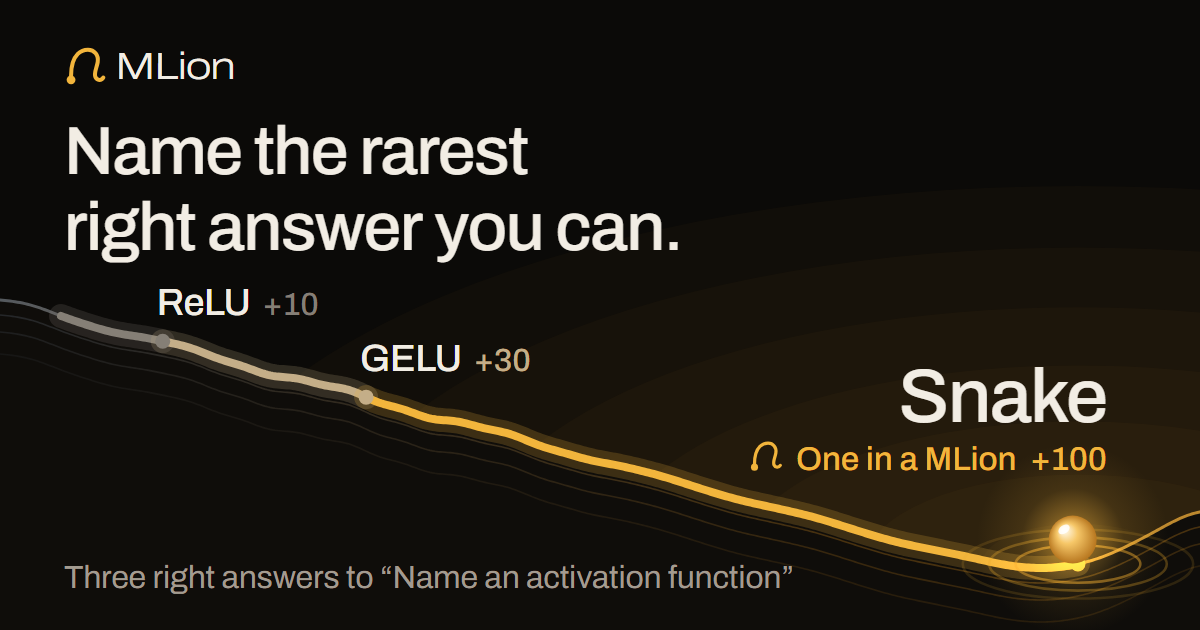
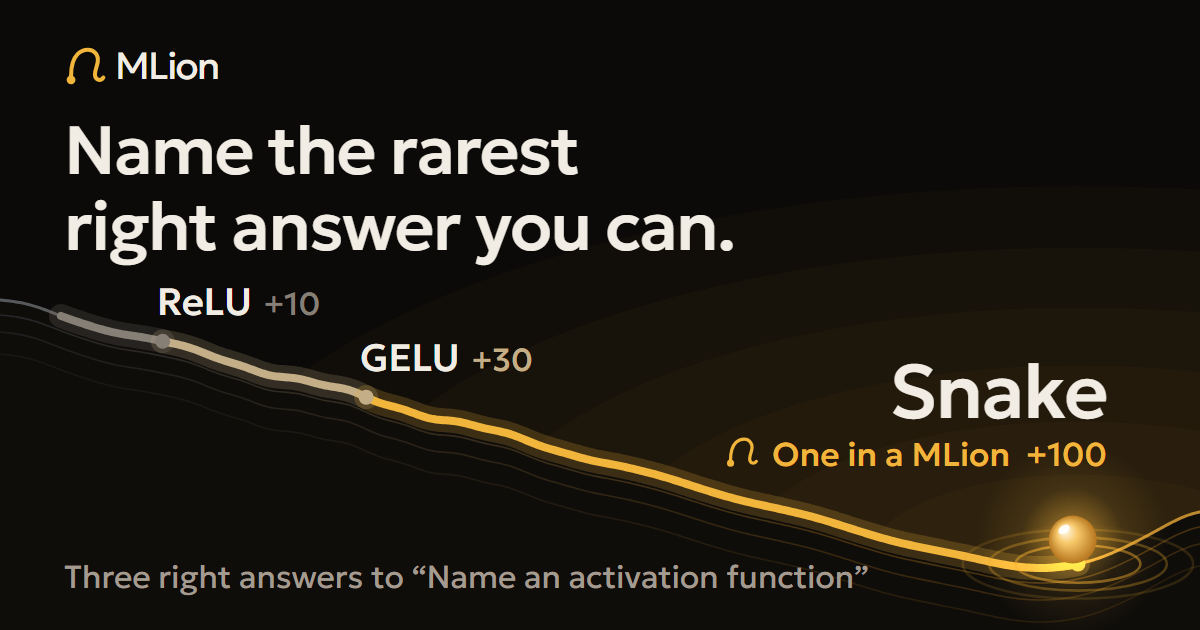
Type: Geologica instead of Archivo
One variable family (28.6 KB latin against 88 KB), chosen after rendering six systems into the real screens.
Its sharpness axis sets the name, headings, tier names and numbers; numbers are heavy and tabular now, and
the prompt and answer one weight step up on the dark ground. Canvas text, the share card and the link
preview image use it too.

Claude-Session: https://claude.ai/code/session_01NbrVzSzK7tnHZZqHAGhKyZ

diff --git a/css/style.css b/css/style.css
@@ -1,6 +1,6 @@
 /* MLion — the daily descent.
  * A dark room with one lit thing in it: the loss landscape and the gold ball.
- * One family (Archivo, its width axis for the name), tone steps instead of
+ * One family (Geologica, its sharpness axis for the name and the numbers), tone steps instead of
  * lines, round controls, gold only for the ball, the action and the gem. */
 :root {
   --bg: #0b0a08;
@@ -25,7 +25,7 @@
   --t-mlion: #f2b53c;
   --t-miss: #6c665d;
 
-  --font: "Archivo", ui-sans-serif, system-ui, -apple-system, "Segoe UI", sans-serif;
+  --font: "Geologica", ui-sans-serif, system-ui, -apple-system, "Segoe UI", sans-serif;
   --s1: 14px;
   --s2: 17px;
   --s3: 24px;
@@ -1412,3 +1412,60 @@ html.kb .live-sp .sp-round { display: none; }
 .oth-a i { margin-left: 8px; padding: 1px 8px; border-radius: var(--round); background: var(--raised-2); color: var(--gold); font-style: normal; font-size: 12px; vertical-align: 1px; }
 .oth-who { grid-column: 2; color: var(--faint); font-size: var(--s1); overflow-wrap: anywhere; }
 .oth-who b { color: var(--muted); font-weight: 600; }
+
+/* ================================================================ type: Geologica (2026-11-06)
+ * The user asked for a better, more particular face than Archivo, and for numbers that don't look thin and out
+ * of place. Geologica (Monokrom, OFL, Google Fonts): one variable file, 28.6 KB latin for every weight, against
+ * Archivo's 88 KB. Chosen over Bricolage Grotesque and Funnel after rendering six systems into the real screens.
+ * Roles: reading text is Geologica with its sharpness axis at 0 (the default); the name, headings, tier names
+ * and the counting numbers use SHRP 100, whose cut terminals give 2 3 6 9 a n some edge at large sizes.
+ * Light text on the dark ground gets one weight step more than it would on white (the prompt, the answer).
+ * The streak count's rules live with the streak badge. */
+:root {
+  --font-display: var(--font);
+  --font-num: var(--font);
+}
+/* display: the name, headings, the jackpot word, the drawer */
+.brand, .wordmark, h1, h2, h3, .jackpot, .drawer a.nav, .modes a, .block-title {
+  font-family: var(--font-display); font-variation-settings: 'SHRP' 100;
+}
+/* the name's stems match the lion mark's stroke: the hero mark's stroke is 0.079 em and Geologica 300's stem
+   0.092 em; the top bar's 30 px mark has a 2.6 px stroke beside 21 px text, and Geologica 500's stem is 2.7 px */
+.brand { font-weight: 500; font-stretch: 100%; letter-spacing: -0.02em; font-size: 21px; }
+.wordmark { font-weight: 300; font-stretch: 100%; letter-spacing: -0.04em; }
+h1, h2, h3, .block-title { font-weight: 600; font-stretch: 100%; letter-spacing: -0.025em; }
+.jackpot { font-weight: 800; font-stretch: 100%; letter-spacing: -0.03em; }
+.drawer a.nav, .modes a { font-weight: 500; letter-spacing: -0.02em; }
+.modes a span, .modes a.friend { font-family: var(--font); font-weight: 400; font-variation-settings: normal; }
+
+/* tier names: the verdict, the band, the depths */
+.fb-name, .band, .depths .n, .depths-sec .n {
+  font-family: var(--font-display); font-weight: 600; font-stretch: 100%;
+  letter-spacing: -0.02em; font-variation-settings: 'SHRP' 100;
+}
+.depths .n small { font-family: var(--font); font-weight: 400; font-variation-settings: normal; }
+
+/* the counting numbers: heavy, tabular, lining */
+.hud b, .score-big, .figure b, .beats b, #timer-num, .fb-points, .duel-scores b,
+.lv-podium em, .lv-answers em, .lv-standings em, .sp-tally b, .sp-ph em, .adm-rows .pts {
+  font-family: var(--font-num); font-variant-numeric: tabular-nums lining-nums;
+  font-variation-settings: 'SHRP' 100; font-stretch: 100%;
+}
+.hud b { font-weight: 700; letter-spacing: -0.02em; }
+.score-big { font-weight: 700; letter-spacing: -0.045em; font-stretch: 100%; }
+.score-big small { font-family: var(--font); font-weight: 400; letter-spacing: 0; font-variation-settings: normal; font-stretch: 100%; }
+.figure b, .beats b { font-weight: 700; letter-spacing: -0.02em; }
+.duel-scores b, .lv-podium em { font-weight: 700; }
+#timer-num { font-weight: 600; }
+.fb-points { font-weight: 700; }
+
+/* the prompt players read against the clock, and their answer: one weight step up on the dark ground */
+.prompt-text { font-weight: 500; letter-spacing: -0.015em; line-height: 1.22; font-size: var(--s3); }
+@media (min-width: 760px) { .prompt-text { font-size: var(--s4); } }
+.prompt-text.rq-text { font-weight: 400; letter-spacing: 0; }
+.answer-input { font-size: 19px; font-weight: 500; letter-spacing: 0; }
+.fb-answer { font-weight: 500; }
+
+/* buttons and small labels */
+.btn { font-weight: 600; letter-spacing: 0; }
+.hud span, #timer-label, .prompt-pack, .play-head, .topbar-mid { letter-spacing: 0.01em; }

diff --git a/js/sharecard.js b/js/sharecard.js
@@ -27,7 +27,7 @@
   // the stage's light, from the rim (cold) to the basin (gold): js/landscape.js PAL, ends only
   const COLD = { path: "#737a82", strata: "#2b3035", rim: "#8a949e" };
   const WARM = { path: "#d89c34", strata: "#714b12", rim: "#f2b53c" };
-  const FONT = 'Archivo, ui-sans-serif, system-ui, -apple-system, "Segoe UI", sans-serif';
+  const FONT = 'Geologica, ui-sans-serif, system-ui, -apple-system, "Segoe UI", sans-serif';
   const FORMATS = {
     card: { w: 1200, h: 630, name: "Card" },
     story: { w: 1080, h: 1920, name: "Story" },
@@ -137,12 +137,12 @@
   }
 
   // ----------------------------------------------------------------- fonts
-  /** Load the faces the card uses (the site's Archivo), for the text it will draw. Never waits long. */
+  /** Load the faces the card uses (the site's Geologica, one variable file for every weight), for the text it will draw. Never waits long. */
   async function fontsReady(spec) {
     if (!document.fonts || !document.fonts.load) return;
     const text = [spec.title, spec.sub, spec.url, spec.hook && (spec.hook.prompt || spec.hook.question), spec.hook && spec.hook.answer,
       spec.duel && spec.duel.name, "MLion0123456789/., ofrightwinsdrawlossLongTail"].filter(Boolean).join(" ");
-    const loads = ["300", "400", "500"].map((w) => document.fonts.load(`${w} 40px Archivo`, text).catch(() => null));
+    const loads = ["300", "400", "500", "600", "700"].map((w) => document.fonts.load(`${w} 40px Geologica`, text).catch(() => null));
     await Promise.race([Promise.all(loads).then(() => document.fonts.ready), new Promise((r) => setTimeout(r, 2500))]);
   }
 
@@ -255,7 +255,7 @@
     c.beginPath(); c.arc(M.ball[0], M.ball[1], M.ball[2], 0, Math.PI * 2); c.fill();
     c.restore();
     const fs = size * 0.86;
-    font(c, fs, 300, "expanded", -0.04 * fs);
+    font(c, fs, 400, "normal", -0.04 * fs); // Geologica 400's stem matches the card mark's stroke (0.11 em)
     c.fillStyle = COL.ink; c.textBaseline = "alphabetic"; c.textAlign = "left";
     const base = y + size * 0.79;
     let tx = x + size * 1.16;
@@ -408,12 +408,12 @@
       block(spec.quiz ? "Not one right answer." : "Stuck on the plateau.", [S.answer, S.answer * 0.84], 2, 500, COL.ink, -0.02, S.small * 0.5);
     } else if (h.kind === "rarest") {
       block(`My rarest answer to “${h.prompt}”`, [S.small], 2, 400, COL.muted, 0, 0);
-      out.push({ ...txt(h.count > 1 ? `${h.tierName} ×${h.count}` : h.tierName, Math.round(S.tier * small), 500, V.TIER_COLORS[h.tier], S.small * 0.5), mark: h.tier });
+      out.push({ ...txt(h.count > 1 ? `${h.tierName} ×${h.count}` : h.tierName, Math.round(S.tier * small), 600, V.TIER_COLORS[h.tier], S.small * 0.5), mark: h.tier });
       block(h.answer, [S.answer, S.answer * 0.86, S.answer * 0.74, S.answer * 0.64], 2, 500, COL.ink, -0.02, S.tier * 0.3);
     } else {
       // the hardest question answered right: the question itself, then how it went
       const how = `${h.level ? `${h.level[0].toUpperCase()}${h.level.slice(1)} question, right` : "Right"}${h.secs != null ? ` in ${h.secs.toFixed(1)} s` : ""}`;
-      out.push({ ...txt(how, Math.round(S.tier * small), 500, V.TIER_COLORS[QUIZ_TIER], 0), mark: "hit" });
+      out.push({ ...txt(how, Math.round(S.tier * small), 600, V.TIER_COLORS[QUIZ_TIER], 0), mark: "hit" });
       block(h.question, [S.answer * 0.62, S.answer * 0.56, S.answer * 0.5], 4, 500, COL.ink, -0.01, S.tier * 0.4);
     }
     return out;
@@ -459,7 +459,7 @@
     c.textBaseline = "alphabetic"; c.textAlign = "left";
     const ofText = `/${spec.max}`;
     font(c, S.of, 400); const ofW = c.measureText(ofText).width;
-    font(c, S.score, 300, "semi-expanded", -0.05 * S.score);
+    font(c, S.score, 700, "normal", -0.045 * S.score);
     const sText = String(spec.score), sW = c.measureText(sText).width;
     const gap = S.of * 0.2, total = sW + gap + ofW;
     const left = align === "right" ? x - total : x - S.score * 0.04;

diff --git a/index.html b/index.html
@@ -61,13 +61,13 @@
   <meta property="og:url" content="https://mlion.lol/">
   <meta property="og:title" content="MLion, a daily word game for ML people">
   <meta property="og:description" content="Seven prompts a day. Common answers barely count.">
-  <meta property="og:image" content="https://mlion.lol/img/og.png?v=17jgdf9">
+  <meta property="og:image" content="https://mlion.lol/img/og.png?v=cemybd">
   <meta property="og:image:type" content="image/png">
   <meta property="og:image:width" content="1200">
   <meta property="og:image:height" content="630">
   <meta property="og:image:alt" content="A ball rolling down a loss curve. Three right answers to “Name an activation function”: ReLU scores 10, GELU 30, and Snake rolls to the bottom for 100.">
   <meta name="twitter:card" content="summary_large_image">
-  <meta name="twitter:image" content="https://mlion.lol/img/og.png?v=17jgdf9">
+  <meta name="twitter:image" content="https://mlion.lol/img/og.png?v=cemybd">
   <meta name="twitter:image:alt" content="A ball rolling down a loss curve. Three right answers to “Name an activation function”: ReLU scores 10, GELU 30, and Snake rolls to the bottom for 100.">
   <link rel="icon" href="img/favicon.svg" type="image/svg+xml">
   <link rel="apple-touch-icon" href="img/apple-touch-icon.png">
@@ -99,8 +99,8 @@
       } catch (e) { /* the game reads the board itself */ }
     })();
   </script>
-  <link href="https://fonts.googleapis.com/css2?family=Archivo:wdth,wght@100..125,300..600&display=swap" rel="stylesheet">
-  <link rel="stylesheet" href="css/style.css?v=1ds40d9">
+  <link href="https://fonts.googleapis.com/css2?family=Geologica:wght,SHRP@300..800,0..100&display=swap" rel="stylesheet">
+  <link rel="stylesheet" href="css/style.css?v=1tbows1">
 </head>
 <body>
   <canvas id="landscape" aria-hidden="true"></canvas>
@@ -178,9 +178,9 @@
   <noscript><p style="position:relative;z-index:2;text-align:center;padding:40px">MLion needs JavaScript to run.</p></noscript>
   <script src="js/engine.js?v=1fh56sp"></script>
   <script src="js/data.js?v=18c4ws5"></script>
-  <script src="js/landscape.js?v=fxuasy"></script>
+  <script src="js/landscape.js?v=1mttxey"></script>
   <script src="js/hero3d.js?v=16wh49w"></script>
-  <script src="js/sharecard.js?v=1godt4k"></script>
+  <script src="js/sharecard.js?v=qfd9g0"></script>
   <meta name="mlion:explain" content="js/explain.js?v=dkyo7q">
   <script src="js/app.js?v=43b905"></script>
 </body>

diff --git a/tools/icons.js b/tools/icons.js
@@ -12,7 +12,7 @@
  *
  * The preview image is drawn on a canvas with the share card's own pieces (js/sharecard.js `kit`:
  * the descent, tier glyphs, lockup), so it speaks the same visual language as a shared result.
- * Needs Playwright (chromium) and a network connection for the Archivo font. */
+ * Needs Playwright (chromium) and a network connection for the Geologica font. */
 "use strict";
 const fs = require("fs");
 const path = require("path");
@@ -23,7 +23,7 @@ const ROOT = path.join(__dirname, "..");
 const IMG = path.join(ROOT, "img");
 const LANDSCAPE = path.join(ROOT, "js", "landscape.js");
 const COL = { bg: "#0b0a08", gold: "#f2b53c", goldDeep: "#b5770a", ink: "#f2ede4", muted: "#a39b90" };
-const FONT_CSS = "https://fonts.googleapis.com/css2?family=Archivo:wdth,wght@100..125,300..600&display=swap";
+const FONT_CSS = "https://fonts.googleapis.com/css2?family=Geologica:wght,SHRP@300..800,0..100&display=swap";
 const args = process.argv.slice(2);
 const onlyOg = args.includes("og");
 const mock = args.includes("mock");
@@ -178,10 +178,10 @@ body { margin: 0; width: ${pageW}px; background: #313338; color: #dbdee1; font: 
     await page.setContent(`<!doctype html><html><head><meta charset="utf-8"><link rel="stylesheet" href="${FONT_CSS}"></head><body style="background:${COL.bg}"></body></html>`, { waitUntil: "networkidle" });
     for (const f of ["engine.js", "landscape.js", "sharecard.js"]) await page.addScriptTag({ path: path.join(ROOT, "js", f) });
     const fontOk = await page.evaluate(async () => {
-      await Promise.all(["300", "400", "500"].map((w) => document.fonts.load(`${w} 40px Archivo`, "MLion Name the rarest right answer you can. ReLU GELU Snake One in a MLion +100 “”")));
-      return document.fonts.check('500 40px "Archivo"');
+      await Promise.all(["300", "400", "500"].map((w) => document.fonts.load(`${w} 40px Geologica`, "MLion Name the rarest right answer you can. ReLU GELU Snake One in a MLion +100 “”")));
+      return document.fonts.check('500 40px "Geologica"');
     });
-    if (!fontOk) throw new Error("Archivo did not load; the preview image needs it (check the network)");
+    if (!fontOk) throw new Error("Geologica did not load; the preview image needs it (check the network)");
     const b64 = await page.evaluate(`(${drawOg.toString()})()`);
     fs.mkdirSync(OG_DIR, { recursive: true });
     const ogPath = path.join(OG_DIR, "og.png");

diff --git a/tools/cards.js b/tools/cards.js
@@ -6,7 +6,7 @@
  * Writes <name>-card.png and <name>-story.png for every sample run (default outDir:
  * tests/out/cards), prints each file's size, and with `thumbs` also screenshots each card at
  * chat sizes (550 px and 330 px wide on a Discord-grey page). Needs Playwright (chromium) and
- * a network connection for the Archivo font. */
+ * a network connection for the Geologica font. */
 "use strict";
 const path = require("path");
 const fs = require("fs");
@@ -21,8 +21,8 @@ const only = (args.find((a) => a.startsWith("only=")) || "").slice(5).split(",")
 fs.mkdirSync(OUT, { recursive: true });
 
 const HARNESS = `<!doctype html><html><head><meta charset="utf-8">
-<link href="https://fonts.googleapis.com/css2?family=Archivo:wdth,wght@100..125,300..600&display=swap" rel="stylesheet">
-<style>body{margin:0;background:#222;font-family:Archivo}</style></head><body>
+<link href="https://fonts.googleapis.com/css2?family=Geologica:wght,SHRP@300..800,0..100&display=swap" rel="stylesheet">
+<style>body{margin:0;background:#222;font-family:Geologica}</style></head><body>
 <script src="js/engine.js"></script><script src="js/data.js"></script><script src="js/explain.js"></script><script src="js/landscape.js"></script><script src="js/sharecard.js"></script>
 </body></html>`;
 
@@ -117,7 +117,7 @@ function samples(only) {
       fs.writeFileSync(path.join(OUT, `${k}.png`), Buffer.from(v.b64, "base64"));
       console.log(`${k.padEnd(24)} ${v.w}x${v.h}  ${(v.size / 1024).toFixed(0).padStart(4)} KB  ${v.ms} ms`);
     }
-    console.log("Archivo loaded:", await page.evaluate(() => document.fonts.check('300 40px "Archivo"')));
+    console.log("Geologica loaded:", await page.evaluate(() => document.fonts.check('300 40px "Geologica"')));
     if (args.includes("thumbs")) {
       await page.setViewportSize({ width: 582, height: 512 });
       for (const k of Object.keys(out).filter((x) => x.endsWith("-card"))) {

diff --git a/sw.js b/sw.js
@@ -12,7 +12,7 @@
  * new name. A new worker installs everything fresh (bypassing the HTTP cache), then waits: the page tells
  * it to take over when no game is running, and reloads once onto the new version (app.js, "updates"). */
 "use strict";
-const ASSETS = /*ASSETS*/["./","css/style.css?v=1ds40d9","js/engine.js?v=1fh56sp","js/data.js?v=18c4ws5","js/landscape.js?v=fxuasy","js/hero3d.js?v=16wh49w","js/sharecard.js?v=1godt4k","js/app.js?v=43b905","js/explain.js?v=dkyo7q","manifest.webmanifest","img/favicon.svg","img/icon-192.png","img/apple-touch-icon.png"]/*END*/;
+const ASSETS = /*ASSETS*/["./","css/style.css?v=1tbows1","js/engine.js?v=1fh56sp","js/data.js?v=18c4ws5","js/landscape.js?v=1mttxey","js/hero3d.js?v=16wh49w","js/sharecard.js?v=qfd9g0","js/app.js?v=43b905","js/explain.js?v=dkyo7q","manifest.webmanifest","img/favicon.svg","img/icon-192.png","img/apple-touch-icon.png"]/*END*/;
 const CACHE = "mlion-" + ASSETS.join("|").split("").reduce((h, c) => (Math.imul(h, 31) + c.charCodeAt(0)) | 0, 7).toString(36);
 
 // The build's content hash (E.hashString in js/engine.js: 32-bit FNV-1a over the text, base 36).

diff --git a/dev/hero.html b/dev/hero.html
@@ -7,7 +7,7 @@
   <meta name="theme-color" content="#0b0a08">
   <link rel="preconnect" href="https://fonts.googleapis.com">
   <link rel="preconnect" href="https://fonts.gstatic.com" crossorigin>
-  <link href="https://fonts.googleapis.com/css2?family=Archivo:wdth,wght@100..125,300..600&display=swap" rel="stylesheet">
+  <link href="https://fonts.googleapis.com/css2?family=Geologica:wght,SHRP@300..800,0..100&display=swap" rel="stylesheet">
   <style>
     /* A stand-in for the home page, just enough to drive js/hero3d.js. */
     :root {
@@ -24,7 +24,7 @@
     html, body { margin: 0; }
     body {
       background: var(--bg); color: var(--ink);
-      font: 17px/1.5 "Archivo", ui-sans-serif, system-ui, sans-serif;
+      font: 17px/1.5 "Geologica", ui-sans-serif, system-ui, sans-serif;
       -webkit-font-smoothing: antialiased; overflow-x: hidden;
     }
     h1, h2, p, ol, ul { margin: 0; }

diff --git a/js/landscape.js b/js/landscape.js
@@ -722,7 +722,7 @@
       // loss levels, set into the ground: they fade near the ball and never sit under a number
       if (!endless()) {
         const n = Math.round(END / 1000);
-        c.font = `500 ${w < 560 ? 11 : 12}px Archivo, system-ui, sans-serif`;
+        c.font = `500 ${w < 560 ? 11 : 12}px Geologica, system-ui, sans-serif`;
         c.textAlign = "center";
         for (let lv = n - 1; lv >= 0; lv--) {
           const wx = (n - lv) * 1000;
@@ -941,7 +941,7 @@
       for (const t of st.texts) {
         const [px, py] = onPath(t.x);
         const k = t.life / t.max;
-        c.font = `600 ${t.size}px Archivo, system-ui, sans-serif`;
+        c.font = `600 ${t.size}px Geologica, system-ui, sans-serif`;
         c.textAlign = "left";
         const tw = c.measureText(t.text).width;
         const tx = Math.min(px + R * 1.7, w - tw - 8);

diff --git a/tests/sharecard.e2e.js b/tests/sharecard.e2e.js
@@ -9,7 +9,7 @@
  *   link     the link-preview tags (og:*, twitter:card, theme-color) and img/og.png agree; the page
  *            itself turns theme-color back to the dark room; a #fragment never reaches the server.
  *   node tests/sharecard.e2e.js           (Google Fonts blocked; the card falls back to the system sans)
- *   node tests/sharecard.e2e.js --fonts   (loads Archivo from Google Fonts)
+ *   node tests/sharecard.e2e.js --fonts   (loads Geologica from Google Fonts)
  * Screenshots land in tests/out/. */
 "use strict";
 const { chromium } = require("playwright");

diff --git a/CONTEXT.md b/CONTEXT.md
@@ -178,8 +178,8 @@ a future `LAUNCH_DATE` changes nothing until D (days before it are still pre-lau
 ## 4. File map
 
 ```
-index.html            app shell; drawer nav; Google Fonts (Archivo); scripts with ?v=<hash> cache-bust
-css/style.css         all styles (taste-skill redesign: dark room, gold accent, Archivo only)
+index.html            app shell; drawer nav; Google Fonts (Geologica); scripts with ?v=<hash> cache-bust
+css/style.css         all styles (taste-skill redesign: dark room, gold accent, Geologica only)
 js/engine.js          tiers, normalization, matching layers, scheduling, share text (UMD; used by Node tools too)
 js/data.js            GENERATED bundle: window.MLION_DATA = {version, stamp, packs, prompts, extras, reasoning, daily}, answers WITHOUT explanations
 js/explain.js         GENERATED: the answers' explanations (`q`), loaded by app.js after boot and merged in by data.js's MLION_MERGE_EXPLAIN (same `stamp` only)
@@ -196,7 +196,7 @@ data/display.json     per-prompt example / scope / offtopic overrides
 data/AUTHORING.md     authoring spec (schema, alias rules, tier calibration)
 tools/build.js        validate every prompt + write js/data.js + cache-bust index.html
 tools/build-single.js bundle everything into one HTML file (Artifact build)
-tools/icons.js        render img/ (favicon.svg, app icons, og.png link preview) from MARK; `og` = only og.png, `og mock` = plus mock Discord embeds in tests/out/og; needs Playwright + network for Archivo
+tools/icons.js        render img/ (favicon.svg, app icons, og.png link preview) from MARK; `og` = only og.png, `og mock` = plus mock Discord embeds in tests/out/og; needs Playwright + network for Geologica
 tools/probe.js        check candidate answers against a prompt (EXACT/CORRECT/SUGGEST/NONE)
 tools/pull_suggestions.js  pull approved answer suggestions into data/prompts/*.json (secret key at run time; see "Suggest this answer")
 supabase/*.sql        schema, daily_quiz, admin, names, quiz_speed, suggestions, rate_limits (each additive; run in the SQL editor)
@@ -227,7 +227,7 @@ npm run e2e        # node tests/e2e.js           (add --fixture to use clone dat
 npm run e2e:live   # live.e2e.js, live.rejoin.e2e.js, live.quiz.e2e.js, live.rejoin.e2e.js --quiz, live.topics.e2e.js, live.sprint.e2e.js, live.rejoin.e2e.js --sprint, live.takeover.e2e.js, live.security.e2e.js (the first seven start a local relay with wrangler dev)
 npm run e2e:quiz   # quiz.e2e.js (solo + challenge; no network)
 npm run e2e:launch # launch.e2e.js: launch-day race, broken links, two tabs, Supabase down, no CDN (no network)
-npm run e2e:card   # sharecard.e2e.js (the share card and sheet; no network, add --fonts to load Archivo)
+npm run e2e:card   # sharecard.e2e.js (the share card and sheet; no network, add --fonts to load Geologica)
 ```
 
 ### Artifact build
@@ -727,7 +727,7 @@ if `js/sharecard.js` is missing the old text share runs.
   "Copy image" (`ClipboardItem` with image/png) and "Save image" (download `mlion-12.png`,
   `mlion-12-story.png`). "Copy text" / "Share text" sends the old text grid. Challenge results get a
   "Share image" button beside "Send result back" and no text grid (the link is the text).
-- Drawing: Archivo is loaded through `document.fonts.load` for the exact weights and text (2.5 s
+- Drawing: Geologica is loaded through `document.fonts.load` for the exact weights and text (2.5 s
   timeout, then the system sans). Only vector paths (`MARK`, `GLYPHS`) and text are drawn, never
   images, so the canvas is never tainted. The terrain is `V.terrain` after `V.setRounds(n)`, smoothed.
   The hook text measures the slope and shrinks (down to 0.6x) rather than run into it.
@@ -1338,7 +1338,7 @@ plus its references) and redesign the site minimally, with almost no text and de
   - Ground `#0b0a08`, tone steps `#161411`, `#211e1a`, `#2c2823`.
   - Ink `#f2ede4`, muted `#a39b90`, gold `#f2b53c`, negative `#f0705c`.
   - Tier ramp from grey to gold.
-- Type: Archivo only. The width axis sets the name at 125%. Type scale tokens: `--s1` 14,
+- Type: Geologica only (since 2026-11-06; Archivo before, with its width axis setting the name at 125%). Its SHRP axis at 100 sets the name, headings, tier names and numbers; see the "type: Geologica" block at the end of css/style.css and its comment for why. Type scale tokens: `--s1` 14,
   `--s2` 17, `--s3` 24, `--s4` `clamp(28px, 1.6vw+18px, 42px)`, `--s5` `clamp(84px, 13vw, 220px)`.
 
 **The idea:** the optimizer's descent becomes the dark room's one lit exhibit. A gem turns the
